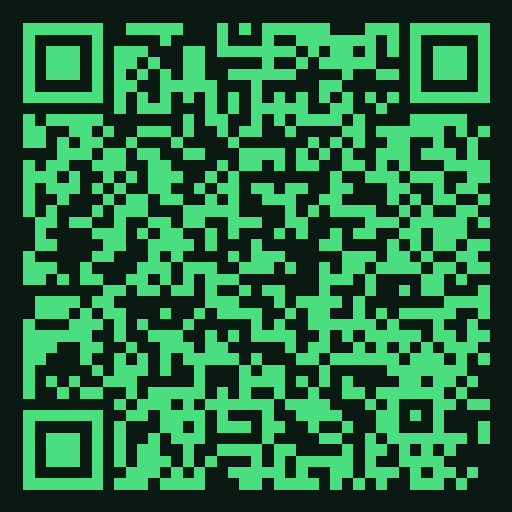
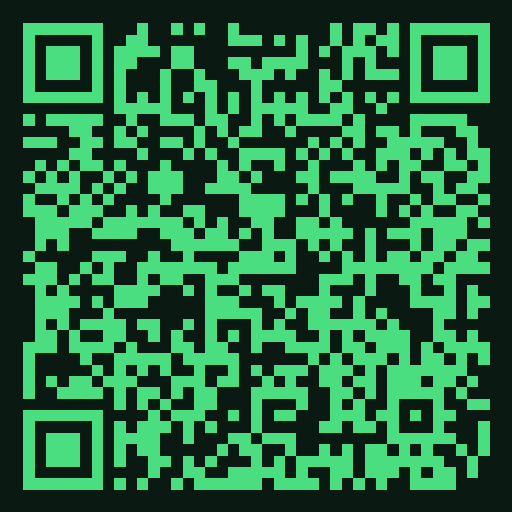
chore(dist): URL livreur EAS 83869602 + QR + fiches
Made-with: Cursor

diff --git a/distribution-fiches.html b/distribution-fiches.html
@@ -94,20 +94,20 @@
     <section class="card" style="border-color:rgba(240, 208, 80, 0.55)">
       <div class="role-tag" style="color:#f0d050">GÉRANT (or)</div>
       <h2>APK Gérant — page Expo</h2>
[1 lines of base64/hex data omitted]
-      <p class="url">https://expo.dev/accounts/brkapk/projects/husko/builds/17360830-dee3-40aa-9156-80dd8bb2c479</p>
[1 lines of base64/hex data omitted]
+      <p class="url">https://expo.dev/accounts/brkapk/projects/husko/builds/6f756b2b-1c35-4379-aeef-691225555294</p>
     </section>
     <section class="card" style="border-color:rgba(74, 222, 128, 0.55)">
       <div class="role-tag" style="color:#4ade80">CLIENT (vert)</div>
       <h2>APK Client — page Expo</h2>
[1 lines of base64/hex data omitted]
-      <p class="url">https://expo.dev/accounts/brkapk/projects/husko/builds/d0ddadee-f851-4469-bdf2-b864e069eb35</p>
[1 lines of base64/hex data omitted]
+      <p class="url">https://expo.dev/accounts/brkapk/projects/husko/builds/a4438848-bdd8-468a-95cf-ca85acb23829</p>
     </section>
     <section class="card" style="border-color:rgba(96, 165, 250, 0.55)">
       <div class="role-tag" style="color:#60a5fa">LIVREUR (bleu)</div>
       <h2>APK Livreur — page Expo</h2>
[1 lines of base64/hex data omitted]
-      <p class="url">https://expo.dev/accounts/brkapk/projects/husko/builds/bb9d7437-53cf-42d0-80f3-69e707da54ac</p>
[1 lines of base64/hex data omitted]
+      <p class="url">https://expo.dev/accounts/brkapk/projects/husko/builds/83869602-3b40-4ae9-8202-35fcb45ebe5d</p>
     </section>
   </div>
 </body>
